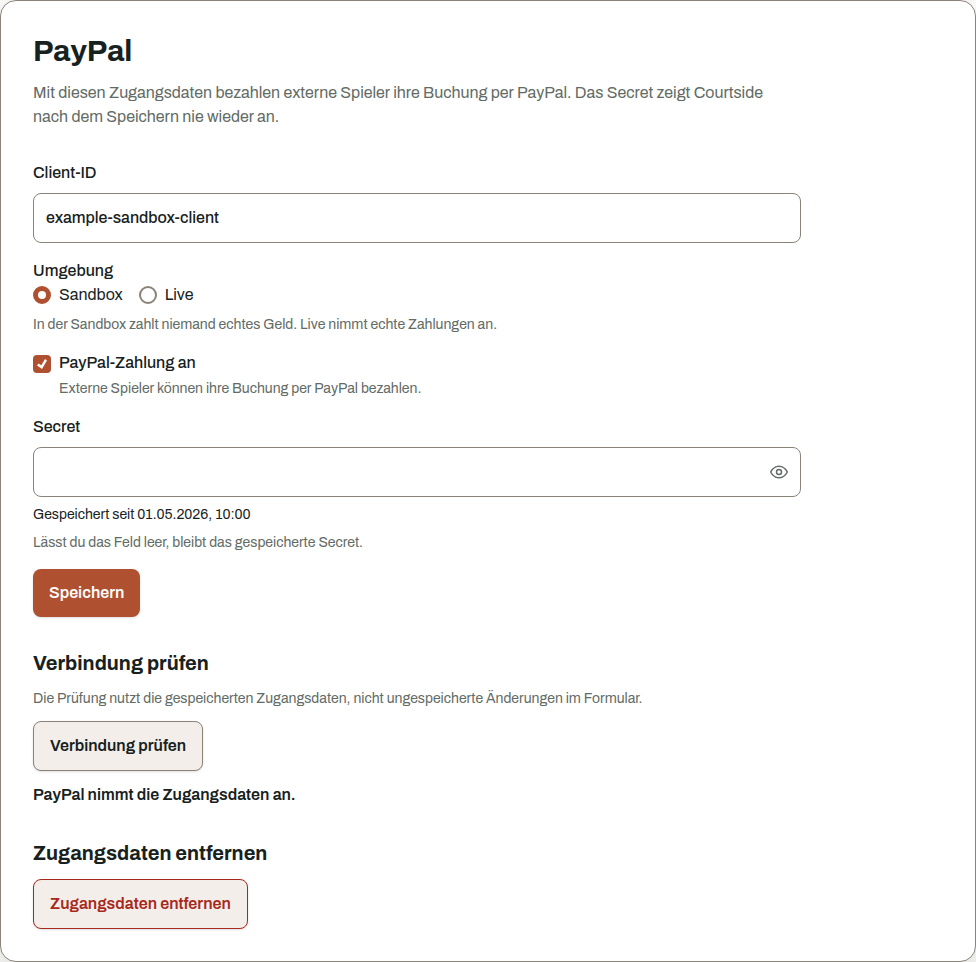
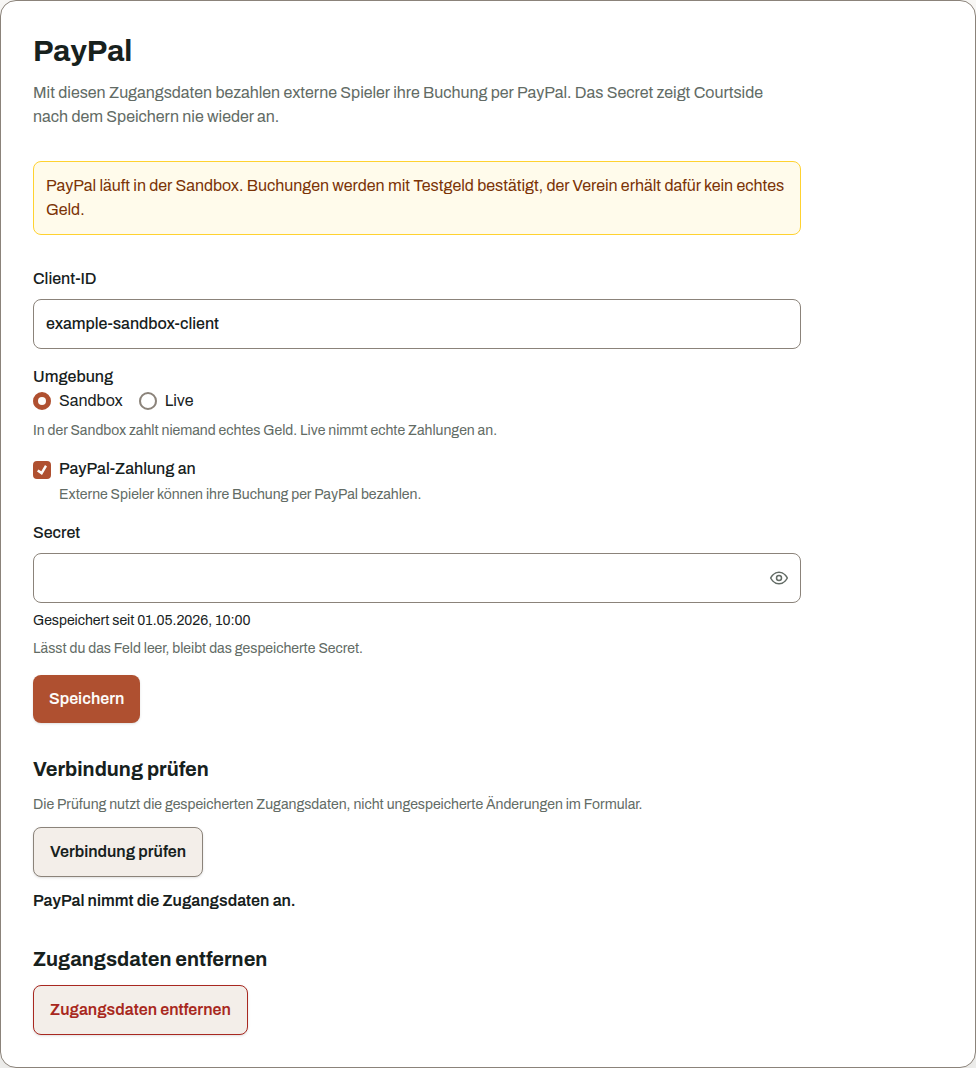
docs: show the sandbox warning in the PayPal guide capture
The capture drives the settings with stored sandbox credentials, so the
page now carries the warning that sandbox bookings are confirmed with test
money. Both captures are retaken through the guides projects and the alt
text names the warning.

Changed region(s): [[0.0307, 0.1559, 0.7992, 0.9667], [0.0307, 0.0312, 0.7992, 0.1247]]

diff --git a/site/en/board-guide.md b/site/en/board-guide.md
@@ -738,7 +738,7 @@ The *PayPal* page is open to administrators and the **Treasurer** role and sits 
 There you enter the client id and secret from the club's PayPal developer account, choose
 **Sandbox** for trying it out or **Live**, and switch payment by PayPal on or off.
 
-![The PayPal settings with client id, environment, switch, secret state and a checked connection.](../screenshots/en/paypal.png)
+![The PayPal settings with the sandbox warning, client id, environment, switch, secret state and a checked connection.](../screenshots/en/paypal.png)
 
 You can enter the secret but never read it again. Courtside encrypts it with the instance key and
 shows only since when one is stored. Leave the field empty when saving and the stored secret stays.

diff --git a/site/board-guide.md b/site/board-guide.md
@@ -777,7 +777,7 @@ Die Seite *PayPal* steht Administratoren und der Rolle **Kassenwart** offen und 
 ein, wählst zwischen **Sandbox** zum Ausprobieren und **Live** und schaltest die Zahlung per PayPal
 ein oder aus.
 
-![Die PayPal-Einstellungen mit Client-ID, Umgebung, Schalter, Secret-Stand und geprüfter Verbindung.](screenshots/de/paypal.png)
+![Die PayPal-Einstellungen mit Sandbox-Warnung, Client-ID, Umgebung, Schalter, Secret-Stand und geprüfter Verbindung.](screenshots/de/paypal.png)
 
 Das Secret kannst du nur eintragen, nie wieder lesen. Courtside verschlüsselt es mit dem
 Instanzschlüssel und zeigt nur, seit wann eines gespeichert ist. Lässt du das Feld beim Speichern
